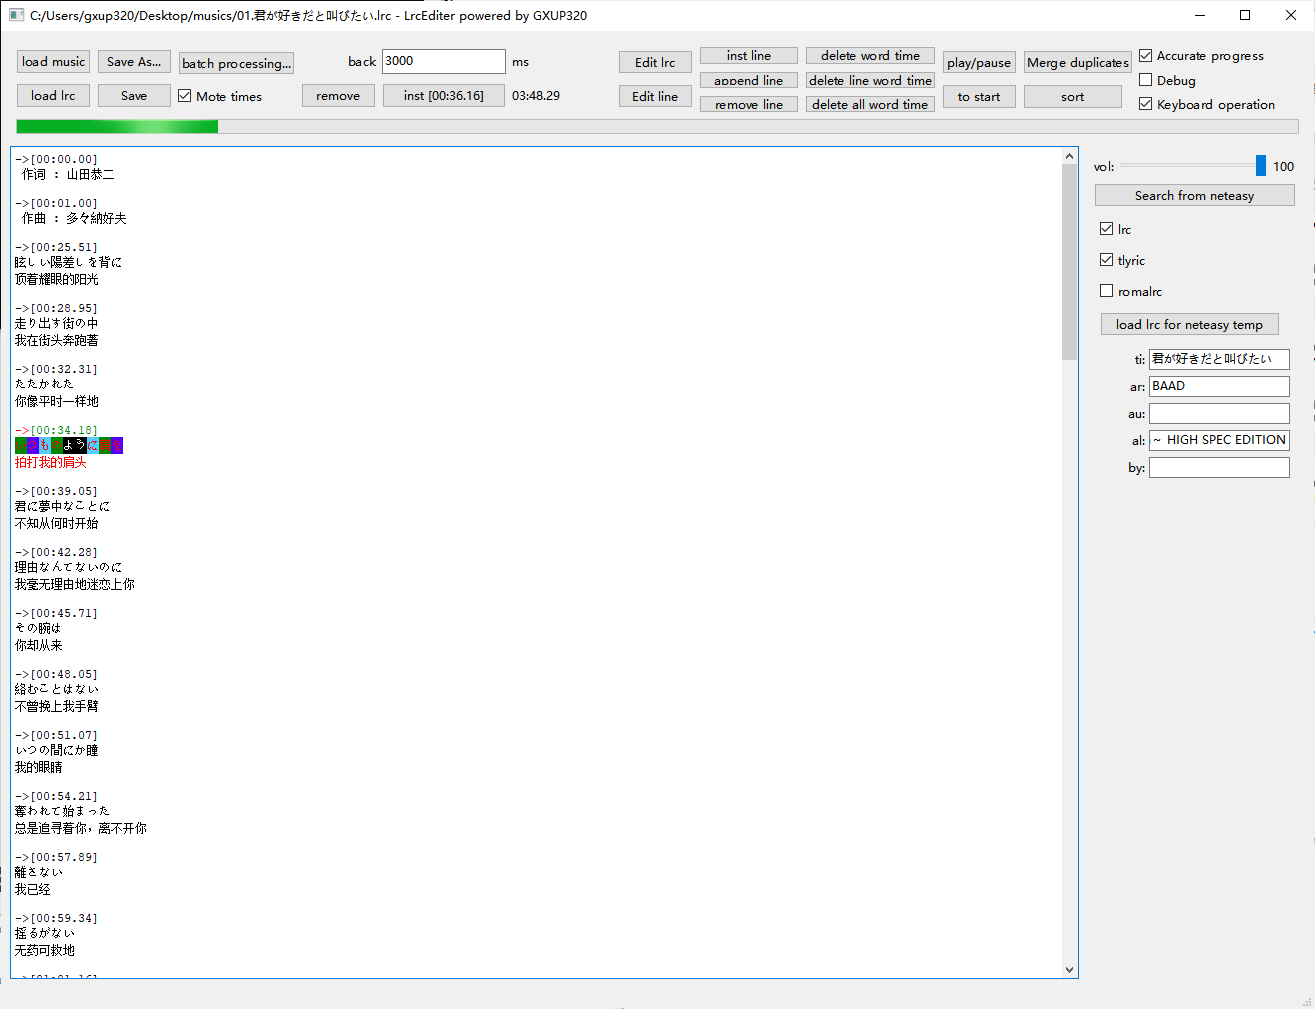
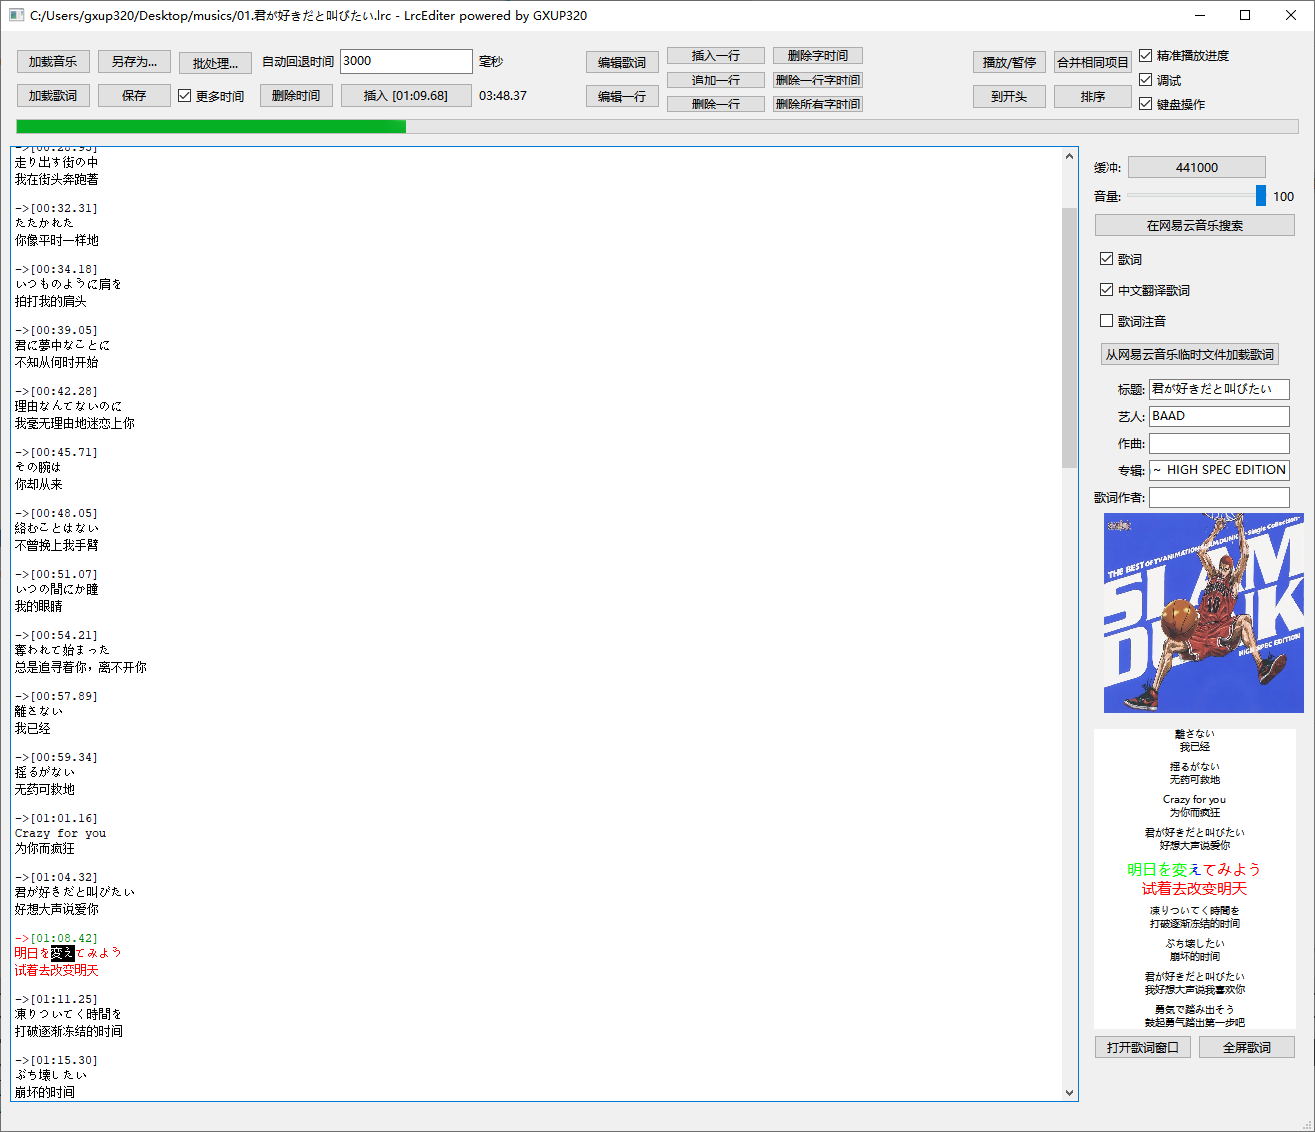
language and readme.md

Changed region(s): [[0.0, 0.0, 1.0, 1.0]]

diff --git a/language/zh_CN.ts b/language/zh_CN.ts
@@ -400,13 +400,13 @@ Alt+→:延后0.1秒</translation>
     </message>
     <message>
         <location filename="../mainwindow.ui" line="80"/>
-        <location filename="../mainwindow.ui" line="1050"/>
+        <location filename="../mainwindow.ui" line="1084"/>
         <source>Save</source>
         <translation>保存</translation>
     </message>
     <message>
         <location filename="../mainwindow.ui" line="112"/>
-        <location filename="../mainwindow.ui" line="1055"/>
+        <location filename="../mainwindow.ui" line="1089"/>
         <source>Save As...</source>
         <translation>另存为...</translation>
     </message>
@@ -809,33 +809,48 @@ Alt+N:字时间延后0.1秒</translation>
         <translation>歌词作者:</translation>
     </message>
     <message>
-        <location filename="../mainwindow.ui" line="1045"/>
+        <location filename="../mainwindow.ui" line="1021"/>
+        <source>lyric</source>
+        <translation>歌词</translation>
+    </message>
+    <message>
+        <location filename="../mainwindow.ui" line="1033"/>
+        <source>show lrc window</source>
+        <translation>打开歌词窗口</translation>
+    </message>
+    <message>
+        <location filename="../mainwindow.ui" line="1040"/>
+        <source>full screen</source>
+        <translation>全屏歌词</translation>
+    </message>
+    <message>
+        <location filename="../mainwindow.ui" line="1079"/>
         <source>Open</source>
         <translation>打开</translation>
     </message>
     <message>
-        <location filename="../mainwindow.ui" line="1060"/>
+        <location filename="../mainwindow.ui" line="1094"/>
         <source>Load music</source>
         <translation>加载音乐</translation>
     </message>
     <message>
-        <location filename="../mainwindow.cpp" line="30"/>
-        <location filename="../mainwindow.cpp" line="254"/>
+        <location filename="../mainwindow.cpp" line="33"/>
+        <location filename="../mainwindow.cpp" line="294"/>
         <source>New File</source>
         <translation>新文件</translation>
     </message>
     <message>
-        <location filename="../mainwindow.cpp" line="78"/>
+        <location filename="../mainwindow.cpp" line="118"/>
         <source>inst</source>
         <translation>插入</translation>
     </message>
     <message>
-        <location filename="../mainwindow.cpp" line="194"/>
+        <location filename="../mainwindow.cpp" line="234"/>
         <source>is video</source>
         <translation>视频</translation>
     </message>
     <message>
-        <location filename="../mainwindow.cpp" line="224"/>
+        <location filename="../mainwindow.cpp" line="264"/>
         <source>Music playing.</source>
         <translation>正在播放音乐.</translation>
     </message>
@@ -848,85 +863,85 @@ Alt+N:字时间延后0.1秒</translation>
         <translation type="vanished">加载中:</translation>
     </message>
     <message>
-        <location filename="../mainwindow.cpp" line="269"/>
-        <location filename="../mainwindow.cpp" line="292"/>
-        <location filename="../mainwindow.cpp" line="296"/>
-        <location filename="../mainwindow.cpp" line="299"/>
+        <location filename="../mainwindow.cpp" line="318"/>
+        <location filename="../mainwindow.cpp" line="341"/>
+        <location filename="../mainwindow.cpp" line="345"/>
+        <location filename="../mainwindow.cpp" line="348"/>
         <source>Save lyric to </source>
         <translation>歌词文件保存到 </translation>
     </message>
     <message>
-        <location filename="../mainwindow.cpp" line="308"/>
+        <location filename="../mainwindow.cpp" line="357"/>
         <source>The document has been modified.</source>
         <translation>文件已被修改.</translation>
     </message>
     <message>
-        <location filename="../mainwindow.cpp" line="309"/>
+        <location filename="../mainwindow.cpp" line="358"/>
         <source>Do you want to save your changes?</source>
         <translation>是否要保存更改？</translation>
     </message>
     <message>
-        <location filename="../mainwindow.cpp" line="469"/>
+        <location filename="../mainwindow.cpp" line="517"/>
         <source>Load music from </source>
         <translation>加载音乐 </translation>
     </message>
     <message>
-        <location filename="../mainwindow.cpp" line="509"/>
-        <location filename="../mainwindow.cpp" line="537"/>
+        <location filename="../mainwindow.cpp" line="557"/>
+        <location filename="../mainwindow.cpp" line="585"/>
         <source>Open LRC</source>
         <translation>打开歌词</translation>
     </message>
     <message>
-        <location filename="../mainwindow.cpp" line="509"/>
-        <location filename="../mainwindow.cpp" line="537"/>
+        <location filename="../mainwindow.cpp" line="557"/>
+        <location filename="../mainwindow.cpp" line="585"/>
         <source>LRC Files (*.lrc)</source>
         <translation>歌词文件 (*.lrc)</translation>
     </message>
     <message>
-        <location filename="../mainwindow.cpp" line="417"/>
+        <location filename="../mainwindow.cpp" line="466"/>
         <source>warning</source>
         <translation>警告</translation>
     </message>
     <message>
-        <location filename="../mainwindow.cpp" line="237"/>
+        <location filename="../mainwindow.cpp" line="277"/>
         <source>Music decodeing...</source>
         <translation>正在解码音频...</translation>
     </message>
     <message>
-        <location filename="../mainwindow.cpp" line="241"/>
+        <location filename="../mainwindow.cpp" line="281"/>
         <source>Audio device loading...</source>
         <translation>正在加载音频设备...</translation>
     </message>
     <message>
-        <location filename="../mainwindow.cpp" line="245"/>
+        <location filename="../mainwindow.cpp" line="285"/>
         <source>Music loading...</source>
         <translation>正在加载音频...</translation>
     </message>
     <message>
-        <location filename="../mainwindow.cpp" line="417"/>
+        <location filename="../mainwindow.cpp" line="466"/>
         <source>offset option ignored</source>
         <translation>offset选项被忽略</translation>
     </message>
     <message>
-        <location filename="../mainwindow.cpp" line="528"/>
-        <location filename="../mainwindow.cpp" line="547"/>
+        <location filename="../mainwindow.cpp" line="576"/>
+        <location filename="../mainwindow.cpp" line="595"/>
         <source>Save fail</source>
         <translation>保存失败</translation>
     </message>
     <message>
-        <location filename="../mainwindow.cpp" line="528"/>
-        <location filename="../mainwindow.cpp" line="547"/>
+        <location filename="../mainwindow.cpp" line="576"/>
+        <location filename="../mainwindow.cpp" line="595"/>
         <source>Save to </source>
         <translation>保存到 </translation>
     </message>
     <message>
-        <location filename="../mainwindow.cpp" line="528"/>
-        <location filename="../mainwindow.cpp" line="547"/>
+        <location filename="../mainwindow.cpp" line="576"/>
+        <location filename="../mainwindow.cpp" line="595"/>
         <source> fail.</source>
         <translation> 失败。</translation>
     </message>
     <message>
-        <location filename="../mainwindow.cpp" line="1033"/>
+        <location filename="../mainwindow.cpp" line="1081"/>
         <source>Open NetEasy Music LRC Temp File</source>
         <translation>打开网易云音乐歌词临时文件</translation>
     </message>
@@ -1063,6 +1078,15 @@ Alt+N:字时间延后0.1秒</translation>
         <location filename="../batchprocessing.cpp" line="259"/>
         <source>Please select an output directory</source>
         <translation>请选择输出目录</translation>
+    </message>
+</context>
+<context>
+    <name>lrcForm</name>
+    <message>
+        <location filename="../lrcform.ui" line="20"/>
+        <location filename="../lrcform.ui" line="44"/>
+        <source>Lrc</source>
+        <translation>歌词</translation>
     </message>
 </context>
 </TS>

diff --git a/README.md b/README.md
@@ -4,19 +4,30 @@ LRC file editing tool
 ![image](https://github.com/gxup320/LrcEditer/blob/main/imgs/img1.png)
 
 # Support shortcut key operation
-E:Disable Keyboard operation  
-ESC:Enable Keyboard operation  
-D:Enable or Disable Debug  
-P:play/pause  
-  
-Space:inst time  
-Backspace:renove time  
-↑:previous item  
-↓:next item  
-←:back 3 seconds  
-→:forward 3 seconds  
-  
-Ctrl+←:0.01 s ahead  
-Ctrl+→:0.01 s delay  
-Alt+←:0.1 s ahead  
-Alt+→:0.1 s delay  
+E:Disable Keyboard operation
+ESC:Enable Keyboard operation
+D:Enable or Disable Debug
+P:play/pause
+
+Space:inst time
+Backspace:renove time
+↑:previous item
+↓:next item
+←:back 3 seconds
+→:forward 3 seconds
+
+Ctrl+←:0.01 s ahead
+Ctrl+→:0.01 s delay
+Alt+←:0.1 s ahead
+Alt+→:0.1 s delay
+
+C:delete line word time
+
+B:previous word
+N:next word
+M:change word time
+
+Ctrl+B:word time 0.01 s ahead
+Ctrl+B:word time 0.01 s delay
+Alt+N:word time 0.1 s ahead
+Alt+N:word time 0.1 s delay
